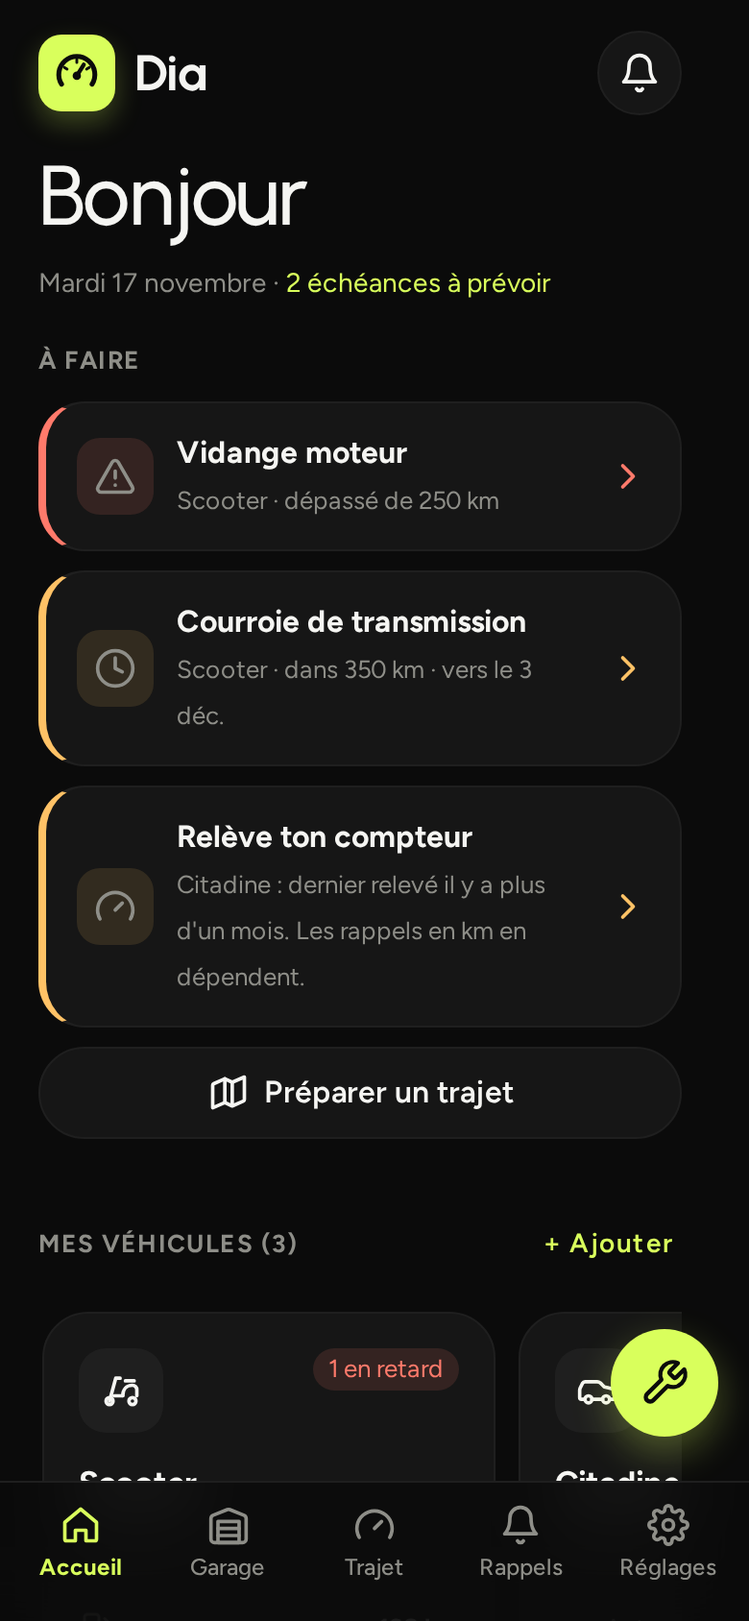
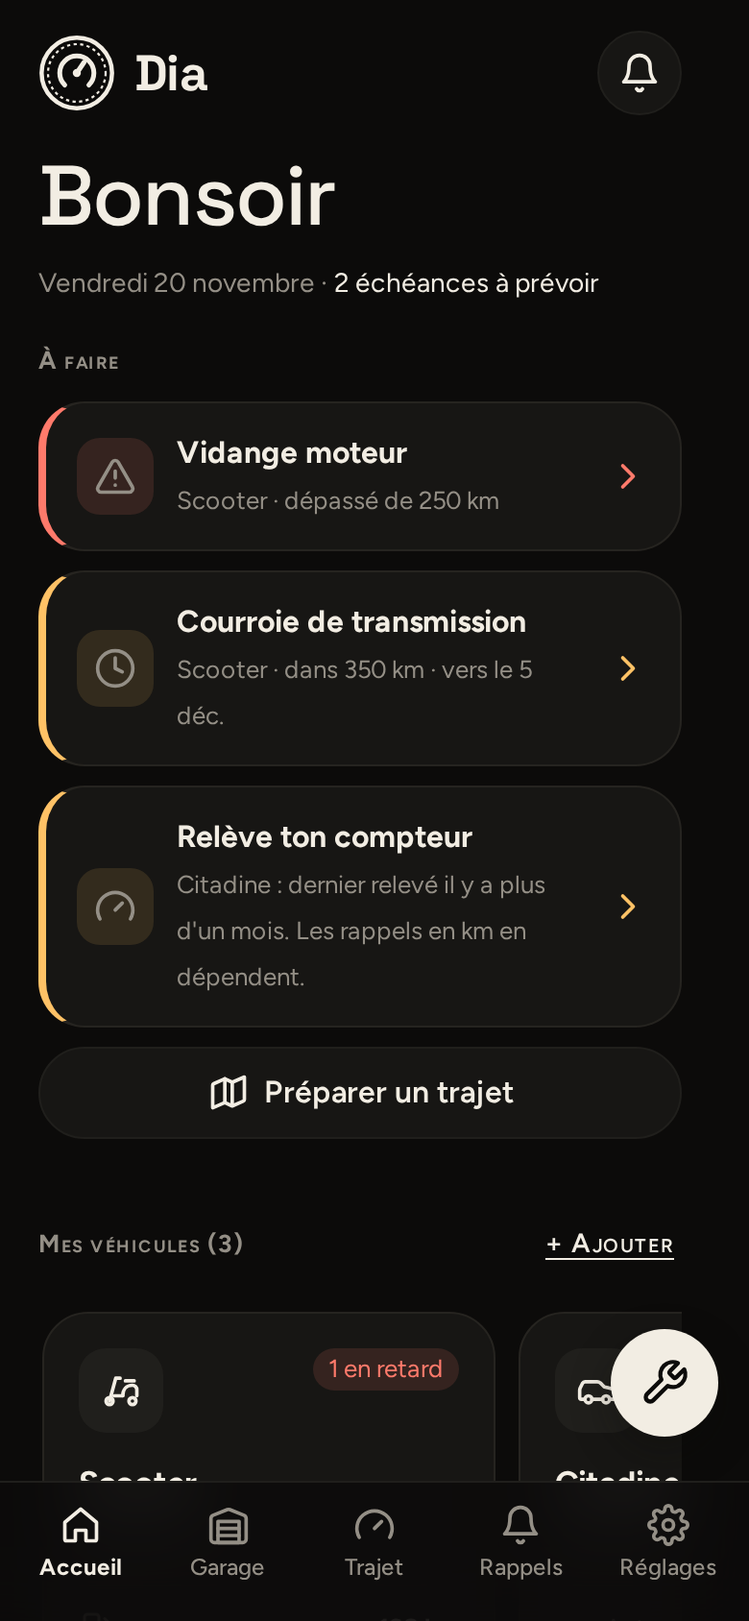
feat: charte Carnet, nouvelles captures, avis de nouvelle version (version.json)

diff --git a/style.css b/style.css
@@ -1,15 +1,15 @@
-:root{--bg:#0B0B0B;--surf:#161616;--line:#262626;--tx:#F2F2EE;--mut:#A3A39C;--acc:#D9FF5C;--on-acc:#0B0B0B;--ok:#7FE0B8;--warn:#FFC266;--late:#FF7A6B;color-scheme:dark}
-[data-theme=light]{--bg:#F5F5F2;--surf:#FFFFFF;--line:#E2E2DC;--tx:#141414;--mut:#5C5C56;--acc:#D9FF5C;--on-acc:#0B0B0B;color-scheme:light}
+:root{--bg:#0C0B0A;--surf:#171614;--line:#33312c;--tx:#F2EDE3;--mut:#948F86;--acc:#F2EDE3;--on-acc:#0C0B0A;--ok:#7FE0B8;--warn:#FFC266;--late:#FF7A6B;color-scheme:dark}
+[data-theme=light]{--bg:#F4F1EA;--surf:#FFFFFF;--line:#d8d2c6;--tx:#1A1815;--mut:#625D55;--acc:#1A1815;--on-acc:#F4F1EA;color-scheme:light}
 *{box-sizing:border-box;margin:0}
 body{background:var(--bg);color:var(--tx);font:16px/1.6 Figtree,system-ui,sans-serif;-webkit-font-smoothing:antialiased}
-h1,h2,h3{font-family:Urbanist,system-ui,sans-serif;line-height:1.15;letter-spacing:-.01em}
+h1,h2,h3{font-family:"Space Grotesk",system-ui,sans-serif;line-height:1.15;letter-spacing:-.01em}
 a{color:inherit}
 .wrap{max-width:1120px;margin:auto;padding:0 20px}
 .skip{position:absolute;left:-999px}.skip:focus{left:12px;top:12px;background:var(--acc);color:var(--on-acc);padding:8px 12px;border-radius:8px}
 :focus-visible{outline:3px solid var(--acc);outline-offset:3px;border-radius:6px}
 header{position:sticky;top:0;z-index:10;background:color-mix(in srgb,var(--bg) 85%,transparent);backdrop-filter:blur(10px);border-bottom:1px solid var(--line)}
 header .wrap{display:flex;align-items:center;gap:16px;height:64px}
-.logo{display:flex;align-items:center;gap:10px;font:700 22px Urbanist,sans-serif;text-decoration:none}
+.logo{display:flex;align-items:center;gap:10px;font:700 22px "Space Grotesk",sans-serif;text-decoration:none}
 .logo img{width:32px;height:32px;border-radius:9px}
 nav{margin-left:auto;display:flex;gap:4px}
 nav a{text-decoration:none;color:var(--mut);padding:10px 12px;border-radius:10px;font-weight:500}
@@ -17,11 +17,11 @@ nav a:hover{color:var(--tx);background:var(--surf)}
 .btn{display:inline-flex;align-items:center;gap:10px;min-height:48px;padding:0 22px;border-radius:14px;font-weight:600;text-decoration:none;transition:transform .15s,background .2s;cursor:pointer}
 .btn:active{transform:scale(.97)}
 .btn svg{width:20px;height:20px}
-.pri{background:var(--acc);color:var(--on-acc)}.pri:hover{background:#E6FF8A}
+.pri{background:var(--acc);color:var(--on-acc)}.pri:hover{opacity:.88}
 .sec{border:1px solid var(--line);background:var(--surf)}.sec:hover{border-color:var(--mut)}
 .hero{padding-block:72px 40px;display:grid;gap:48px;align-items:center}
 .tag{display:inline-block;font-size:14px;font-weight:600;color:var(--on-acc);background:var(--acc);padding:4px 12px;border-radius:99px;margin-bottom:20px}
-.hero h1{font-size:clamp(40px,7vw,68px);font-weight:800}
+.hero h1{font-size:clamp(40px,7vw,68px);font-weight:700}
 .hero h1 em{font-style:normal;color:var(--acc)}
 [data-theme=light] .hero h1 em{background:var(--acc);color:var(--on-acc);padding:0 .15em;border-radius:.15em}
 .lead{font-size:19px;color:var(--mut);margin:20px 0 28px;max-width:34em}
@@ -34,7 +34,7 @@ nav a:hover{color:var(--tx);background:var(--surf)}
 .pills span{display:flex;align-items:center;gap:8px;border:1px solid var(--line);background:var(--surf);padding:8px 14px;border-radius:99px;font-weight:500}
 .pills svg{width:18px;height:18px;color:var(--ok)}
 section{padding:72px 0}
-.sh{font-size:clamp(28px,4vw,40px);font-weight:800;margin-bottom:12px}
+.sh{font-size:clamp(28px,4vw,40px);font-weight:700;margin-bottom:12px}
 .ss{color:var(--mut);max-width:40em;margin-bottom:36px}
 .grid{display:grid;gap:16px;grid-template-columns:repeat(auto-fit,minmax(250px,1fr))}
 .card{background:var(--surf);border:1px solid var(--line);border-radius:20px;padding:24px}
@@ -64,8 +64,8 @@ footer .wrap{display:flex;flex-wrap:wrap;gap:12px 24px;justify-content:space-bet
 @media (prefers-reduced-motion:reduce){*{transition:none!important;scroll-behavior:auto!important}}
 
 /* v2 */
-.hero-bg{position:relative;background:radial-gradient(60% 60% at 75% 40%,color-mix(in srgb,var(--acc) 22%,transparent),transparent 70%),linear-gradient(180deg,rgba(11,11,11,.55),var(--bg));margin-top:-66px;padding-top:90px}
-[data-theme=light] .hero-bg{background:radial-gradient(60% 60% at 75% 40%,color-mix(in srgb,var(--acc) 45%,transparent),transparent 70%),linear-gradient(180deg,rgba(245,245,242,.6),var(--bg))}
+.hero-bg{position:relative;background:radial-gradient(60% 60% at 75% 40%,color-mix(in srgb,var(--acc) 22%,transparent),transparent 70%),linear-gradient(180deg,rgba(12,11,10,.55),var(--bg));margin-top:-66px;padding-top:90px}
+[data-theme=light] .hero-bg{background:radial-gradient(60% 60% at 75% 40%,color-mix(in srgb,var(--acc) 45%,transparent),transparent 70%),linear-gradient(180deg,rgba(244,241,234,.6),var(--bg))}
 header{background:transparent;border:0;backdrop-filter:none}
 header .wrap{margin-top:10px;height:56px;background:color-mix(in srgb,var(--surf) 75%,transparent);backdrop-filter:blur(14px);border:1px solid var(--line);border-radius:18px;padding:0 12px 0 16px}
 .tag{background:var(--surf);color:var(--tx);border:1px solid var(--line);padding:4px 12px 4px 4px}
@@ -73,8 +73,8 @@ header .wrap{margin-top:10px;height:56px;background:color-mix(in srgb,var(--surf
 .stage{position:relative;display:flex;justify-content:center;padding:20px 0 40px}
 .stage .phone{width:min(70%,260px)}
 .float{position:absolute;display:flex;align-items:center;gap:10px;background:color-mix(in srgb,var(--surf) 88%,transparent);backdrop-filter:blur(10px);border:1px solid var(--line);border-radius:16px;padding:10px 14px;box-shadow:0 16px 40px -12px rgba(0,0,0,.5);font-size:14px}
-.float b{display:block;font-family:Urbanist,sans-serif}.float small{color:var(--mut)}
-.float .big{font:800 26px Urbanist,sans-serif;color:var(--acc)}
+.float b{display:block;font-family:"Space Grotesk",sans-serif}.float small{color:var(--mut)}
+.float .big{font:700 26px "Space Grotesk",sans-serif;color:var(--acc)}
 [data-theme=light] .float .big{color:var(--tx)}
 .dot{width:10px;height:10px;border-radius:50%}.dot.warn{background:var(--warn)}.dot.ok{background:var(--ok)}
 .f1{left:0;top:18%}.f2{right:0;top:45%;flex-direction:column;align-items:flex-start;gap:0}.f3{left:4%;bottom:12%}
@@ -91,20 +91,20 @@ header .wrap{margin-top:10px;height:56px;background:color-mix(in srgb,var(--surf
 .tile .ic{width:44px;height:44px;border-radius:12px;background:var(--on-acc);color:var(--acc);display:grid;place-items:center;margin-bottom:16px}.tile .ic svg{width:22px}
 .steps{list-style:none;padding:0;display:grid;gap:16px;grid-template-columns:repeat(auto-fit,minmax(240px,1fr));margin-top:28px}
 .steps li{border-top:2px solid var(--line);padding-top:20px}
-.steps span{display:grid;place-items:center;width:40px;height:40px;border-radius:50%;background:var(--acc);color:var(--on-acc);font:800 18px Urbanist,sans-serif;margin-bottom:14px}
+.steps span{display:grid;place-items:center;width:40px;height:40px;border-radius:50%;background:var(--acc);color:var(--on-acc);font:700 18px "Space Grotesk",sans-serif;margin-bottom:14px}
 .steps h3{font-size:20px;margin-bottom:6px}.steps p{color:var(--mut)}
 @media (min-width:760px){.bento{grid-template-columns:repeat(3,1fr)}.tile.wide{grid-column:span 2;flex-direction:row;align-items:flex-end}.tile.wide .tx{flex:1;align-self:flex-start;padding:32px}.tile.wide img{width:240px;margin:24px 32px 0 0}}
 @media (max-width:480px){.float{font-size:12px;padding:8px 10px}.f1{left:0}.f2{right:0}}
 .faq{max-width:760px}
 details{border-bottom:1px solid var(--line)}
-summary{cursor:pointer;list-style:none;display:flex;justify-content:space-between;gap:16px;padding:20px 0;font:700 18px Urbanist,sans-serif}
+summary{cursor:pointer;list-style:none;display:flex;justify-content:space-between;gap:16px;padding:20px 0;font:700 18px "Space Grotesk",sans-serif}
 summary::-webkit-details-marker{display:none}
 summary::after{content:"+";color:var(--acc);font-size:24px;line-height:1;transition:transform .2s}
 [data-theme=light] summary::after{color:var(--tx)}
 details[open] summary::after{transform:rotate(45deg)}
 details p{color:var(--mut);padding:0 0 20px}
 .final{text-align:center;padding:96px 0;background:radial-gradient(50% 70% at 50% 100%,color-mix(in srgb,var(--acc) 25%,transparent),transparent 70%)}
-.final h2{font-size:clamp(30px,5vw,52px);font-weight:800;max-width:16em;margin:auto}
+.final h2{font-size:clamp(30px,5vw,52px);font-weight:700;max-width:16em;margin:auto}
 .final p{color:var(--mut);margin:14px 0 28px;font-size:18px}
 .js [data-r]{opacity:0;transform:translateY(28px);transition:opacity .7s cubic-bezier(.2,.7,.2,1),transform .7s cubic-bezier(.2,.7,.2,1)}
 .js [data-r].in{opacity:1;transform:none}
@@ -124,10 +124,10 @@ details[open] p{animation:faq .35s cubic-bezier(.2,.7,.2,1)}
 .visually-hidden{position:absolute;width:1px;height:1px;overflow:hidden;clip:rect(0 0 0 0)}
 .xp{position:relative;overflow:hidden;background:radial-gradient(70% 80% at 85% 60%,color-mix(in srgb,var(--acc) 14%,transparent),transparent 70%)}
 .xp .wrap{position:relative}
-.xp-bg{position:absolute;top:-.12em;left:0;font:800 clamp(80px,17vw,230px)/1 Urbanist,sans-serif;letter-spacing:-.05em;white-space:nowrap;color:transparent;-webkit-text-stroke:1px var(--line);pointer-events:none;user-select:none}
+.xp-bg{position:absolute;top:-.12em;left:0;font:700 clamp(80px,17vw,230px)/1 "Space Grotesk",sans-serif;letter-spacing:-.05em;white-space:nowrap;color:transparent;-webkit-text-stroke:1px var(--line);pointer-events:none;user-select:none}
 .show{position:relative;display:grid;gap:32px;padding-top:clamp(70px,12vw,170px)}
 .show-tabs{display:flex;flex-direction:column;align-items:flex-start}
-.show-tabs button{all:unset;cursor:pointer;display:flex;align-items:baseline;gap:12px;font:800 clamp(30px,5vw,56px)/1.08 Urbanist,sans-serif;letter-spacing:-.03em;text-transform:uppercase;color:color-mix(in srgb,var(--tx) 45%,transparent);transition:color .3s}
+.show-tabs button{all:unset;cursor:pointer;display:flex;align-items:baseline;gap:12px;font:700 clamp(30px,5vw,56px)/1.08 "Space Grotesk",sans-serif;letter-spacing:-.03em;text-transform:uppercase;color:color-mix(in srgb,var(--tx) 45%,transparent);transition:color .3s}
 .show-tabs button i{font:500 13px ui-monospace,monospace;font-style:normal;letter-spacing:0;color:var(--mut)}
 .show-tabs button:hover{color:color-mix(in srgb,var(--tx) 70%,transparent)}
 .show-tabs button[aria-selected=true]{color:var(--acc)}
@@ -208,3 +208,17 @@ nav .lng a[aria-current]{background:var(--acc);color:var(--on-acc)}
 }
 .show{grid-template-columns:minmax(0,1fr)}@media (min-width:860px){.show{grid-template-columns:minmax(0,1.2fr) minmax(0,1fr)}}
 .lng{align-items:center;align-self:center}nav .lng a{display:grid;place-items:center;line-height:1;height:28px;padding:0 9px}@media (max-width:640px){nav .lng a{height:40px;padding:0 16px}}
+
+/* charte « Carnet » : ivoire sur noir chaud, traits pointillés de carnet, petites capitales */
+.hero h1 em,[data-theme=light] .hero h1 em{color:inherit;background:none;padding:0;text-decoration:underline;text-decoration-thickness:.07em;text-underline-offset:.14em}
+.hero-bg,[data-theme=light] .hero-bg,.final,.xp{background:none}
+.show-stage{background:var(--bg)}
+.card,.tile,.show-card,.don{border-style:dashed}
+.tile.lock{border:0}.tile.lock p{color:color-mix(in srgb,var(--on-acc) 72%,transparent)}
+.steps li{border-top-style:dashed}details{border-bottom-style:dashed}
+
+.tag b{font-variant:small-caps;letter-spacing:.04em}
+.phone,.show-phone{border-color:#1c1b19}
+.float .big{color:var(--tx)}
+.pills svg{color:var(--tx)}
+summary::after{color:var(--tx)}

diff --git a/index.html b/index.html
@@ -5,7 +5,7 @@
 <meta name="viewport" content="width=device-width,initial-scale=1">
 <title>Dia — diarin'ny fikojakojana ny fiaranao</title>
 <meta name="description" content="Manaraka ny fikojakojana, ny solika ary ny dian'ny fiaranao rehetra i Dia. Maimaim-poana, mandeha tsy misy Internet, tsy mila kaonty, tsy misy dokam-barotra. Natao ho an'i Madagasikara.">
-<meta name="theme-color" content="#0B0B0B">
+<meta name="theme-color" content="#0C0B0A">
 <meta property="og:title" content="Dia — diarin'ny fikojakojana ny fiaranao">
 <meta property="og:description" content="Maimaim-poana, tsy mila Internet, tsy mila kaonty, tsy misy dokam-barotra.">
 <meta property="og:image" content="https://jhasina.github.io/dia-site/img/01-accueil.png">
@@ -16,11 +16,11 @@
 <link rel="alternate" hreflang="x-default" href="https://jhasina.github.io/dia-site/">
 <meta property="og:url" content="https://jhasina.github.io/dia-site/">
 <script type="application/ld+json">
-{"@context":"https://schema.org","@type":"SoftwareApplication","name":"Dia","inLanguage":"mg","operatingSystem":"Android 7.0+","applicationCategory":"TravelApplication","description":"Manaraka ny fikojakojana, ny solika ary ny dian'ny fiaranao rehetra i Dia. Maimaim-poana, mandeha tsy misy Internet, tsy mila kaonty, tsy misy dokam-barotra. Natao ho an'i Madagasikara.","url":"https://jhasina.github.io/dia-site/","downloadUrl":"https://github.com/jhasina/dia-site/releases/latest/download/Dia.apk","softwareVersion":"0.1.6","image":"https://jhasina.github.io/dia-site/img/icone.png","screenshot":"https://jhasina.github.io/dia-site/img/01-accueil.png","author":{"@type":"Person","name":"Jhasina"},"offers":{"@type":"Offer","price":"0","priceCurrency":"MGA"}}
+{"@context":"https://schema.org","@type":"SoftwareApplication","name":"Dia","inLanguage":"mg","operatingSystem":"Android 7.0+","applicationCategory":"TravelApplication","description":"Manaraka ny fikojakojana, ny solika ary ny dian'ny fiaranao rehetra i Dia. Maimaim-poana, mandeha tsy misy Internet, tsy mila kaonty, tsy misy dokam-barotra. Natao ho an'i Madagasikara.","url":"https://jhasina.github.io/dia-site/","downloadUrl":"https://github.com/jhasina/dia-site/releases/latest/download/Dia.apk","softwareVersion":"0.1.7","image":"https://jhasina.github.io/dia-site/img/icone.png","screenshot":"https://jhasina.github.io/dia-site/img/01-accueil.png","author":{"@type":"Person","name":"Jhasina"},"offers":{"@type":"Offer","price":"0","priceCurrency":"MGA"}}
 </script>
 <link rel="icon" href="img/icone.png">
 <link rel="preconnect" href="https://fonts.googleapis.com"><link rel="preconnect" href="https://fonts.gstatic.com" crossorigin>
-<link href="https://fonts.googleapis.com/css2?family=Figtree:wght@400;500;600&family=Urbanist:wght@700;800&display=swap" rel="stylesheet">
+<link href="https://fonts.googleapis.com/css2?family=Figtree:wght@400;500;600&family=Space+Grotesk:wght@600;700&display=swap" rel="stylesheet">
 <script>try{document.documentElement.dataset.theme=localStorage.dia_theme||(matchMedia('(prefers-color-scheme: light)').matches?'light':'dark')}catch(e){document.documentElement.dataset.theme='dark'}</script>
 <link rel="stylesheet" href="style.css">
 </head>
@@ -70,7 +70,7 @@
     <article data-r class="tile "><div class="tx"><h3>Solika</h3><p>Saha 2 amin'ny 3 ihany, fanjifana, vidiny isaky ny km, halaviran-dalana azo atao araka ny jauge-nao.</p></div><img src="img/04-carburant.png" alt="Fanarahana ny solika" loading="lazy" width="390" height="844"></article>
     <article data-r class="tile "><div class="tx"><h3>Kaontera GPS</h3><p>Hafainganana, halavirana ary lalana nodiavina, na dia any ambadika aza.</p></div><img src="img/07-compteur.png" alt="Kaontera GPS" loading="lazy" width="390" height="844"></article>
     <article data-r class="tile wide"><div class="tx"><h3>Hanomana dia</h3><p>Lalana, toeram-pivarotana solika eny an-dalana, fampitandremana raha misy elanelana mihoatra ny solika ananao.</p></div><img src="img/08-preparer.png" alt="Fanomanana dia eo amin'ny sarintany" loading="lazy" width="390" height="844"></article>
-    <article data-r class="tile "><div class="tx"><h3>Rakitsoratra</h3><p>Olana, andrana, fanamboarana, firafitry ny fiara.</p></div><img src="img/05-journal.png" alt="Rakitsoratra" loading="lazy" width="390" height="844"></article>
+    <article data-r class="tile "><div class="tx"><h3>Fanamarihana sy fanarahana</h3><p>Olana, andrana, fanamboarana, firafitry ny fiara.</p></div><img src="img/05-journal.png" alt="Fanamarihana sy fanarahana ny fiara" loading="lazy" width="390" height="844"></article>
     <article data-r class="tile lock"><div class="tx"><div class="ic"><svg viewBox="0 0 24 24" fill="none" stroke="currentColor" stroke-width="2" stroke-linecap="round" stroke-linejoin="round" aria-hidden="true"><rect x="5" y="11" width="14" height="10" rx="2"/><path d="M8 11V7a4 4 0 0 1 8 0v4"/></svg></div><h3>Aminao ihany ny angonao</h3><p>Tsy misy mivoaka ny findainao. Tsy misy mpizara, tsy misy fanaraha-maso. Azonao aondrana JSON na CSV rehefa tianao.</p><a href="confidentialite.html#mg">Fiainana manokana</a></div></article>
   </div>
 </div></section>
@@ -89,11 +89,11 @@
   <div class="show" data-r>
     <div class="show-side">
       <h2 class="visually-hidden">Sary</h2>
-      <div class="show-tabs" role="tablist" aria-label="Ireo pejin'i Dia"><button role="tab" aria-selected="true" aria-controls="show-card"><i>01</i>Garazy</button><button role="tab" aria-selected="false" aria-controls="show-card"><i>02</i>Fanairana</button><button role="tab" aria-selected="false" aria-controls="show-card"><i>03</i>Solika</button><button role="tab" aria-selected="false" aria-controls="show-card"><i>04</i>Dia</button><button role="tab" aria-selected="false" aria-controls="show-card"><i>05</i>Rakitsoratra</button><button role="tab" aria-selected="false" aria-controls="show-card"><i>06</i>Fikirana</button></div>
+      <div class="show-tabs" role="tablist" aria-label="Ireo pejin'i Dia"><button role="tab" aria-selected="true" aria-controls="show-card"><i>01</i>Garazy</button><button role="tab" aria-selected="false" aria-controls="show-card"><i>02</i>Fanairana</button><button role="tab" aria-selected="false" aria-controls="show-card"><i>03</i>Solika</button><button role="tab" aria-selected="false" aria-controls="show-card"><i>04</i>Dia</button><button role="tab" aria-selected="false" aria-controls="show-card"><i>05</i>Fanamarihana</button><button role="tab" aria-selected="false" aria-controls="show-card"><i>06</i>Fikirana</button></div>
       <p class="xp-tag">Pejy iray isaky ny filana.<br>Ao anaty app iray ihany ny zava-drehetra.</p>
     </div>
     <div class="show-card" id="show-card" role="tabpanel">
-      <div class="show-stage"><div class="show-phone"><img src="img/02-garage.png" alt="Pejy Garazy ao amin'i Dia" width="390" height="844" data-h="Ny fiaranao rehetra, rakitsoratra iray." data-d="Scooter, fiara, bisikileta: samy manana ny kaonterany, ny fampahatsiahivany ary ny fandaniany." class=on><img src="img/09-rappels.png" alt="Pejy Fanairana ao amin'i Dia" width="390" height="844" data-h="Tsy misy hadino." data-d="Tara, efa ho tonga, vita: hita indray mijery ny toetry ny fikojakojana tsirairay." loading=lazy><img src="img/04-carburant.png" alt="Pejy Solika ao amin'i Dia" width="390" height="844" data-h="Manan-danja ny solika rehetra." data-d="Fanjifana, vidiny isaky ny km ary vidiny antonony, kajiana ho anao." loading=lazy><img src="img/08-preparer.png" alt="Pejy Dia ao amin'i Dia" width="390" height="844" data-h="Miaingà am-piadanana." data-d="Lalana, toeram-pivarotana solika eny an-dalana ary fampitandremana momba ny solika alohan'ny hiaingana." loading=lazy><img src="img/05-journal.png" alt="Pejy Rakitsoratra ao amin'i Dia" width="390" height="844" data-h="Ny fahatsiarovan'ny fiaranao." data-d="Olana, andrana ary fanamboarana voasoratra tsikelikely, hita amin'ny fikarohana iray." loading=lazy><img src="img/10-reglages.png" alt="Pejy Fikirana ao amin'i Dia" width="390" height="844" data-h="Dia, araka ny fomba tianao." data-d="Fiteny, vola, loko, haben'ny soratra ary fitehirizana." loading=lazy></div></div>
+      <div class="show-stage"><div class="show-phone"><img src="img/02-garage.png" alt="Pejy Garazy ao amin'i Dia" width="390" height="844" data-h="Ny fiaranao rehetra, rakitsoratra iray." data-d="Scooter, fiara, bisikileta: samy manana ny kaonterany, ny fampahatsiahivany ary ny fandaniany." class=on><img src="img/09-rappels.png" alt="Pejy Fanairana ao amin'i Dia" width="390" height="844" data-h="Tsy misy hadino." data-d="Tara, efa ho tonga, vita: hita indray mijery ny toetry ny fikojakojana tsirairay." loading=lazy><img src="img/04-carburant.png" alt="Pejy Solika ao amin'i Dia" width="390" height="844" data-h="Manan-danja ny solika rehetra." data-d="Fanjifana, vidiny isaky ny km ary vidiny antonony, kajiana ho anao." loading=lazy><img src="img/08-preparer.png" alt="Pejy Dia ao amin'i Dia" width="390" height="844" data-h="Miaingà am-piadanana." data-d="Lalana, toeram-pivarotana solika eny an-dalana ary fampitandremana momba ny solika alohan'ny hiaingana." loading=lazy><img src="img/05-journal.png" alt="Pejy Fanamarihana ao amin'i Dia" width="390" height="844" data-h="Ny fahatsiarovan'ny fiaranao." data-d="Olana, andrana ary fanamboarana voasoratra tsikelikely, hita amin'ny fikarohana iray." loading=lazy><img src="img/10-reglages.png" alt="Pejy Fikirana ao amin'i Dia" width="390" height="844" data-h="Dia, araka ny fomba tianao." data-d="Fiteny, vola, loko, haben'ny soratra ary fitehirizana." loading=lazy></div></div>
       <h3 id="show-h">Ny fiaranao rehetra, rakitsoratra iray.</h3>
       <p id="show-d">Scooter, fiara, bisikileta: samy manana ny kaonterany, ny fampahatsiahivany ary ny fandaniany.</p>
     </div>

diff --git a/fr.html b/fr.html
@@ -5,7 +5,7 @@
 <meta name="viewport" content="width=device-width,initial-scale=1">
 <title>Dia — carnet d'entretien de tes véhicules</title>
 <meta name="description" content="Dia suit l'entretien, le carburant et les trajets de tous tes véhicules. Gratuit, hors ligne, sans compte et sans publicité. Pensé pour Madagascar.">
-<meta name="theme-color" content="#0B0B0B">
+<meta name="theme-color" content="#0C0B0A">
 <meta property="og:title" content="Dia — carnet d'entretien de tes véhicules">
 <meta property="og:description" content="Gratuit, hors ligne, sans compte, sans publicité.">
 <meta property="og:image" content="https://jhasina.github.io/dia-site/img/01-accueil.png">
@@ -16,11 +16,11 @@
 <link rel="alternate" hreflang="x-default" href="https://jhasina.github.io/dia-site/">
 <meta property="og:url" content="https://jhasina.github.io/dia-site/fr.html">
 <script type="application/ld+json">
-{"@context":"https://schema.org","@type":"SoftwareApplication","name":"Dia","inLanguage":"fr","operatingSystem":"Android 7.0+","applicationCategory":"TravelApplication","description":"Dia suit l'entretien, le carburant et les trajets de tous tes véhicules. Gratuit, hors ligne, sans compte et sans publicité. Pensé pour Madagascar.","url":"https://jhasina.github.io/dia-site/fr.html","downloadUrl":"https://github.com/jhasina/dia-site/releases/latest/download/Dia.apk","softwareVersion":"0.1.6","image":"https://jhasina.github.io/dia-site/img/icone.png","screenshot":"https://jhasina.github.io/dia-site/img/01-accueil.png","author":{"@type":"Person","name":"Jhasina"},"offers":{"@type":"Offer","price":"0","priceCurrency":"MGA"}}
+{"@context":"https://schema.org","@type":"SoftwareApplication","name":"Dia","inLanguage":"fr","operatingSystem":"Android 7.0+","applicationCategory":"TravelApplication","description":"Dia suit l'entretien, le carburant et les trajets de tous tes véhicules. Gratuit, hors ligne, sans compte et sans publicité. Pensé pour Madagascar.","url":"https://jhasina.github.io/dia-site/fr.html","downloadUrl":"https://github.com/jhasina/dia-site/releases/latest/download/Dia.apk","softwareVersion":"0.1.7","image":"https://jhasina.github.io/dia-site/img/icone.png","screenshot":"https://jhasina.github.io/dia-site/img/01-accueil.png","author":{"@type":"Person","name":"Jhasina"},"offers":{"@type":"Offer","price":"0","priceCurrency":"MGA"}}
 </script>
 <link rel="icon" href="img/icone.png">
 <link rel="preconnect" href="https://fonts.googleapis.com"><link rel="preconnect" href="https://fonts.gstatic.com" crossorigin>
-<link href="https://fonts.googleapis.com/css2?family=Figtree:wght@400;500;600&family=Urbanist:wght@700;800&display=swap" rel="stylesheet">
+<link href="https://fonts.googleapis.com/css2?family=Figtree:wght@400;500;600&family=Space+Grotesk:wght@600;700&display=swap" rel="stylesheet">
 <script>try{document.documentElement.dataset.theme=localStorage.dia_theme||(matchMedia('(prefers-color-scheme: light)').matches?'light':'dark')}catch(e){document.documentElement.dataset.theme='dark'}</script>
 <link rel="stylesheet" href="style.css">
 </head>
@@ -70,7 +70,7 @@
     <article data-r class="tile "><div class="tx"><h3>Carburant</h3><p>2 champs sur 3, consommation, coût au km, autonomie selon ta jauge.</p></div><img src="img/04-carburant.png" alt="Suivi du carburant" loading="lazy" width="390" height="844"></article>
     <article data-r class="tile "><div class="tx"><h3>Compteur GPS</h3><p>Vitesse, distance et tracé, même en arrière-plan.</p></div><img src="img/07-compteur.png" alt="Compteur GPS" loading="lazy" width="390" height="844"></article>
     <article data-r class="tile wide"><div class="tx"><h3>Préparer un trajet</h3><p>Itinéraire, stations sur la route, alerte si un tronçon dépasse ton autonomie.</p></div><img src="img/08-preparer.png" alt="Préparer un trajet sur la carte" loading="lazy" width="390" height="844"></article>
-    <article data-r class="tile "><div class="tx"><h3>Journal</h3><p>Problèmes, essais, réglages, configuration du véhicule.</p></div><img src="img/05-journal.png" alt="Journal de bord" loading="lazy" width="390" height="844"></article>
+    <article data-r class="tile "><div class="tx"><h3>Notes et suivi</h3><p>Problèmes, essais, réglages, configuration du véhicule.</p></div><img src="img/05-journal.png" alt="Notes et suivi du véhicule" loading="lazy" width="390" height="844"></article>
     <article data-r class="tile lock"><div class="tx"><div class="ic"><svg viewBox="0 0 24 24" fill="none" stroke="currentColor" stroke-width="2" stroke-linecap="round" stroke-linejoin="round" aria-hidden="true"><rect x="5" y="11" width="14" height="10" rx="2"/><path d="M8 11V7a4 4 0 0 1 8 0v4"/></svg></div><h3>Tes données restent chez toi</h3><p>Rien ne quitte le téléphone. Pas de serveur, pas de pisteur. Export JSON ou CSV quand tu veux.</p><a href="confidentialite.html#fr">Confidentialité</a></div></article>
   </div>
 </div></section>
@@ -89,11 +89,11 @@
   <div class="show" data-r>
     <div class="show-side">
       <h2 class="visually-hidden">En images</h2>
-      <div class="show-tabs" role="tablist" aria-label="Écrans de Dia"><button role="tab" aria-selected="true" aria-controls="show-card"><i>01</i>Garage</button><button role="tab" aria-selected="false" aria-controls="show-card"><i>02</i>Rappels</button><button role="tab" aria-selected="false" aria-controls="show-card"><i>03</i>Carburant</button><button role="tab" aria-selected="false" aria-controls="show-card"><i>04</i>Trajet</button><button role="tab" aria-selected="false" aria-controls="show-card"><i>05</i>Journal</button><button role="tab" aria-selected="false" aria-controls="show-card"><i>06</i>Réglages</button></div>
+      <div class="show-tabs" role="tablist" aria-label="Écrans de Dia"><button role="tab" aria-selected="true" aria-controls="show-card"><i>01</i>Garage</button><button role="tab" aria-selected="false" aria-controls="show-card"><i>02</i>Rappels</button><button role="tab" aria-selected="false" aria-controls="show-card"><i>03</i>Carburant</button><button role="tab" aria-selected="false" aria-controls="show-card"><i>04</i>Trajet</button><button role="tab" aria-selected="false" aria-controls="show-card"><i>05</i>Notes et suivi</button><button role="tab" aria-selected="false" aria-controls="show-card"><i>06</i>Réglages</button></div>
       <p class="xp-tag">Un écran par besoin.<br>Tout dans la même app.</p>
     </div>
     <div class="show-card" id="show-card" role="tabpanel">
-      <div class="show-stage"><div class="show-phone"><img src="img/02-garage.png" alt="Écran Garage de Dia" width="390" height="844" data-h="Tous tes véhicules, un seul carnet." data-d="Scooter, voiture, vélo : chacun son compteur, ses rappels et ses dépenses." class=on><img src="img/09-rappels.png" alt="Écran Rappels de Dia" width="390" height="844" data-h="Rien ne passe à la trappe." data-d="En retard, bientôt, à jour : l'état de chaque entretien d'un coup d'œil." loading=lazy><img src="img/04-carburant.png" alt="Écran Carburant de Dia" width="390" height="844" data-h="Chaque plein compte." data-d="Consommation, coût au km et prix moyen, calculés pour toi." loading=lazy><img src="img/08-preparer.png" alt="Écran Trajet de Dia" width="390" height="844" data-h="Pars l'esprit tranquille." data-d="Itinéraire, stations sur la route et alerte d'autonomie avant de partir." loading=lazy><img src="img/05-journal.png" alt="Écran Journal de Dia" width="390" height="844" data-h="La mémoire de ton véhicule." data-d="Problèmes, essais et réglages notés au fil de l'eau, retrouvés en une recherche." loading=lazy><img src="img/10-reglages.png" alt="Écran Réglages de Dia" width="390" height="844" data-h="Dia, à ta façon." data-d="Langue, devise, thème, taille du texte et sauvegarde." loading=lazy></div></div>
+      <div class="show-stage"><div class="show-phone"><img src="img/02-garage.png" alt="Écran Garage de Dia" width="390" height="844" data-h="Tous tes véhicules, un seul carnet." data-d="Scooter, voiture, vélo : chacun son compteur, ses rappels et ses dépenses." class=on><img src="img/09-rappels.png" alt="Écran Rappels de Dia" width="390" height="844" data-h="Rien ne passe à la trappe." data-d="En retard, bientôt, à jour : l'état de chaque entretien d'un coup d'œil." loading=lazy><img src="img/04-carburant.png" alt="Écran Carburant de Dia" width="390" height="844" data-h="Chaque plein compte." data-d="Consommation, coût au km et prix moyen, calculés pour toi." loading=lazy><img src="img/08-preparer.png" alt="Écran Trajet de Dia" width="390" height="844" data-h="Pars l'esprit tranquille." data-d="Itinéraire, stations sur la route et alerte d'autonomie avant de partir." loading=lazy><img src="img/05-journal.png" alt="Écran Notes et suivi de Dia" width="390" height="844" data-h="La mémoire de ton véhicule." data-d="Problèmes, essais et réglages notés au fil de l'eau, retrouvés en une recherche." loading=lazy><img src="img/10-reglages.png" alt="Écran Réglages de Dia" width="390" height="844" data-h="Dia, à ta façon." data-d="Langue, devise, thème, taille du texte et sauvegarde." loading=lazy></div></div>
       <h3 id="show-h">Tous tes véhicules, un seul carnet.</h3>
       <p id="show-d">Scooter, voiture, vélo : chacun son compteur, ses rappels et ses dépenses.</p>
     </div>

diff --git a/en.html b/en.html
@@ -5,7 +5,7 @@
 <meta name="viewport" content="width=device-width,initial-scale=1">
 <title>Dia — the maintenance log for your vehicles</title>
 <meta name="description" content="Dia tracks maintenance, fuel and trips for all your vehicles. Free, offline, no account and no ads. Built for Madagascar.">
-<meta name="theme-color" content="#0B0B0B">
+<meta name="theme-color" content="#0C0B0A">
 <meta property="og:title" content="Dia — the maintenance log for your vehicles">
 <meta property="og:description" content="Free, offline, no account, no ads.">
 <meta property="og:image" content="https://jhasina.github.io/dia-site/img/01-accueil.png">
@@ -16,11 +16,11 @@
 <link rel="alternate" hreflang="x-default" href="https://jhasina.github.io/dia-site/">
 <meta property="og:url" content="https://jhasina.github.io/dia-site/en.html">
 <script type="application/ld+json">
-{"@context":"https://schema.org","@type":"SoftwareApplication","name":"Dia","inLanguage":"en","operatingSystem":"Android 7.0+","applicationCategory":"TravelApplication","description":"Dia tracks maintenance, fuel and trips for all your vehicles. Free, offline, no account and no ads. Built for Madagascar.","url":"https://jhasina.github.io/dia-site/en.html","downloadUrl":"https://github.com/jhasina/dia-site/releases/latest/download/Dia.apk","softwareVersion":"0.1.6","image":"https://jhasina.github.io/dia-site/img/icone.png","screenshot":"https://jhasina.github.io/dia-site/img/01-accueil.png","author":{"@type":"Person","name":"Jhasina"},"offers":{"@type":"Offer","price":"0","priceCurrency":"MGA"}}
+{"@context":"https://schema.org","@type":"SoftwareApplication","name":"Dia","inLanguage":"en","operatingSystem":"Android 7.0+","applicationCategory":"TravelApplication","description":"Dia tracks maintenance, fuel and trips for all your vehicles. Free, offline, no account and no ads. Built for Madagascar.","url":"https://jhasina.github.io/dia-site/en.html","downloadUrl":"https://github.com/jhasina/dia-site/releases/latest/download/Dia.apk","softwareVersion":"0.1.7","image":"https://jhasina.github.io/dia-site/img/icone.png","screenshot":"https://jhasina.github.io/dia-site/img/01-accueil.png","author":{"@type":"Person","name":"Jhasina"},"offers":{"@type":"Offer","price":"0","priceCurrency":"MGA"}}
 </script>
 <link rel="icon" href="img/icone.png">
 <link rel="preconnect" href="https://fonts.googleapis.com"><link rel="preconnect" href="https://fonts.gstatic.com" crossorigin>
-<link href="https://fonts.googleapis.com/css2?family=Figtree:wght@400;500;600&family=Urbanist:wght@700;800&display=swap" rel="stylesheet">
+<link href="https://fonts.googleapis.com/css2?family=Figtree:wght@400;500;600&family=Space+Grotesk:wght@600;700&display=swap" rel="stylesheet">
 <script>try{document.documentElement.dataset.theme=localStorage.dia_theme||(matchMedia('(prefers-color-scheme: light)').matches?'light':'dark')}catch(e){document.documentElement.dataset.theme='dark'}</script>
 <link rel="stylesheet" href="style.css">
 </head>
@@ -70,7 +70,7 @@
     <article data-r class="tile "><div class="tx"><h3>Fuel</h3><p>Fill 2 fields out of 3, consumption, cost per km, range from your fuel gauge.</p></div><img src="img/04-carburant.png" alt="Fuel tracking" loading="lazy" width="390" height="844"></article>
     <article data-r class="tile "><div class="tx"><h3>GPS speedometer</h3><p>Speed, distance and track, even in the background.</p></div><img src="img/07-compteur.png" alt="GPS speedometer" loading="lazy" width="390" height="844"></article>
     <article data-r class="tile wide"><div class="tx"><h3>Plan a trip</h3><p>Route, fuel stations on the way, warning if a stretch exceeds your range.</p></div><img src="img/08-preparer.png" alt="Planning a trip on the map" loading="lazy" width="390" height="844"></article>
-    <article data-r class="tile "><div class="tx"><h3>Logbook</h3><p>Problems, tests, adjustments, vehicle setup.</p></div><img src="img/05-journal.png" alt="Logbook" loading="lazy" width="390" height="844"></article>
+    <article data-r class="tile "><div class="tx"><h3>Notes and tracking</h3><p>Problems, tests, adjustments, vehicle setup.</p></div><img src="img/05-journal.png" alt="Vehicle notes and tracking" loading="lazy" width="390" height="844"></article>
     <article data-r class="tile lock"><div class="tx"><div class="ic"><svg viewBox="0 0 24 24" fill="none" stroke="currentColor" stroke-width="2" stroke-linecap="round" stroke-linejoin="round" aria-hidden="true"><rect x="5" y="11" width="14" height="10" rx="2"/><path d="M8 11V7a4 4 0 0 1 8 0v4"/></svg></div><h3>Your data stays with you</h3><p>Nothing leaves your phone. No server, no tracker. Export to JSON or CSV whenever you like.</p><a href="confidentialite.html#en">Privacy</a></div></article>
   </div>
 </div></section>
@@ -89,11 +89,11 @@
   <div class="show" data-r>
     <div class="show-side">
       <h2 class="visually-hidden">Screens</h2>
-      <div class="show-tabs" role="tablist" aria-label="Dia screens"><button role="tab" aria-selected="true" aria-controls="show-card"><i>01</i>Garage</button><button role="tab" aria-selected="false" aria-controls="show-card"><i>02</i>Reminders</button><button role="tab" aria-selected="false" aria-controls="show-card"><i>03</i>Fuel</button><button role="tab" aria-selected="false" aria-controls="show-card"><i>04</i>Trips</button><button role="tab" aria-selected="false" aria-controls="show-card"><i>05</i>Logbook</button><button role="tab" aria-selected="false" aria-controls="show-card"><i>06</i>Settings</button></div>
+      <div class="show-tabs" role="tablist" aria-label="Dia screens"><button role="tab" aria-selected="true" aria-controls="show-card"><i>01</i>Garage</button><button role="tab" aria-selected="false" aria-controls="show-card"><i>02</i>Reminders</button><button role="tab" aria-selected="false" aria-controls="show-card"><i>03</i>Fuel</button><button role="tab" aria-selected="false" aria-controls="show-card"><i>04</i>Trips</button><button role="tab" aria-selected="false" aria-controls="show-card"><i>05</i>Notes</button><button role="tab" aria-selected="false" aria-controls="show-card"><i>06</i>Settings</button></div>
       <p class="xp-tag">One screen per need.<br>All in the same app.</p>
     </div>
     <div class="show-card" id="show-card" role="tabpanel">
-      <div class="show-stage"><div class="show-phone"><img src="img/02-garage.png" alt="Dia Garage screen" width="390" height="844" data-h="All your vehicles, one log." data-d="Scooter, car, bike: each with its own odometer, reminders and expenses." class=on><img src="img/09-rappels.png" alt="Dia Reminders screen" width="390" height="844" data-h="Nothing slips through." data-d="Overdue, soon, up to date: every service at a glance." loading=lazy><img src="img/04-carburant.png" alt="Dia Fuel screen" width="390" height="844" data-h="Every fill-up counts." data-d="Consumption, cost per km and average price, worked out for you." loading=lazy><img src="img/08-preparer.png" alt="Dia Trip screen" width="390" height="844" data-h="Leave with peace of mind." data-d="Route, fuel stations on the way and range warning before you leave." loading=lazy><img src="img/05-journal.png" alt="Dia Logbook screen" width="390" height="844" data-h="Your vehicle's memory." data-d="Problems, tests and adjustments noted as you go, found with one search." loading=lazy><img src="img/10-reglages.png" alt="Dia Settings screen" width="390" height="844" data-h="Dia, your way." data-d="Language, currency, theme, text size and backup." loading=lazy></div></div>
+      <div class="show-stage"><div class="show-phone"><img src="img/02-garage.png" alt="Dia Garage screen" width="390" height="844" data-h="All your vehicles, one log." data-d="Scooter, car, bike: each with its own odometer, reminders and expenses." class=on><img src="img/09-rappels.png" alt="Dia Reminders screen" width="390" height="844" data-h="Nothing slips through." data-d="Overdue, soon, up to date: every service at a glance." loading=lazy><img src="img/04-carburant.png" alt="Dia Fuel screen" width="390" height="844" data-h="Every fill-up counts." data-d="Consumption, cost per km and average price, worked out for you." loading=lazy><img src="img/08-preparer.png" alt="Dia Trip screen" width="390" height="844" data-h="Leave with peace of mind." data-d="Route, fuel stations on the way and range warning before you leave." loading=lazy><img src="img/05-journal.png" alt="Dia Notes and tracking screen" width="390" height="844" data-h="Your vehicle's memory." data-d="Problems, tests and adjustments noted as you go, found with one search." loading=lazy><img src="img/10-reglages.png" alt="Dia Settings screen" width="390" height="844" data-h="Dia, your way." data-d="Language, currency, theme, text size and backup." loading=lazy></div></div>
       <h3 id="show-h">All your vehicles, one log.</h3>
       <p id="show-d">Scooter, car, bike: each with its own odometer, reminders and expenses.</p>
     </div>

diff --git a/confidentialite.html b/confidentialite.html
@@ -5,11 +5,11 @@
 <meta name="viewport" content="width=device-width,initial-scale=1">
 <title>Confidentialité — Dia</title>
 <meta name="description" content="Politique de confidentialité de l'application Dia : aucune donnée collectée, tout reste sur le téléphone.">
-<meta name="theme-color" content="#0B0B0B">
+<meta name="theme-color" content="#0C0B0A">
 <link rel="canonical" href="https://jhasina.github.io/dia-site/confidentialite.html">
 <link rel="icon" href="img/icone.png">
 <link rel="preconnect" href="https://fonts.googleapis.com"><link rel="preconnect" href="https://fonts.gstatic.com" crossorigin>
-<link href="https://fonts.googleapis.com/css2?family=Figtree:wght@400;500;600&family=Urbanist:wght@700;800&display=swap" rel="stylesheet">
+<link href="https://fonts.googleapis.com/css2?family=Figtree:wght@400;500;600&family=Space+Grotesk:wght@600;700&display=swap" rel="stylesheet">
 <script>try{document.documentElement.dataset.theme=localStorage.dia_theme||(matchMedia('(prefers-color-scheme: light)').matches?'light':'dark')}catch(e){document.documentElement.dataset.theme='dark'}</script>
 <link rel="stylesheet" href="style.css">
 </head>

diff --git a/build.py b/build.py
@@ -62,9 +62,9 @@ T = [  # (français, malagasy, anglais)
      "Lalana, toeram-pivarotana solika eny an-dalana, fampitandremana raha misy elanelana mihoatra ny solika ananao.",
      'Route, fuel stations on the way, warning if a stretch exceeds your range.'),
     ('alt="Préparer un trajet sur la carte"', 'alt="Fanomanana dia eo amin\'ny sarintany"', 'alt="Planning a trip on the map"'),
-    ('<h3>Journal</h3>', '<h3>Rakitsoratra</h3>', '<h3>Logbook</h3>'),
+    ('<h3>Notes et suivi</h3>', '<h3>Fanamarihana sy fanarahana</h3>', '<h3>Notes and tracking</h3>'),
     ('Problèmes, essais, réglages, configuration du véhicule.', "Olana, andrana, fanamboarana, firafitry ny fiara.", 'Problems, tests, adjustments, vehicle setup.'),
-    ('alt="Journal de bord"', 'alt="Rakitsoratra"', 'alt="Logbook"'),
+    ('alt="Notes et suivi du véhicule"', 'alt="Fanamarihana sy fanarahana ny fiara"', 'alt="Vehicle notes and tracking"'),
     ('<h3>Tes données restent chez toi</h3>', '<h3>Aminao ihany ny angonao</h3>', '<h3>Your data stays with you</h3>'),
     ('Rien ne quitte le téléphone. Pas de serveur, pas de pisteur. Export JSON ou CSV quand tu veux.',
      "Tsy misy mivoaka ny findainao. Tsy misy mpizara, tsy misy fanaraha-maso. Azonao aondrana JSON na CSV rehefa tianao.",
@@ -84,14 +84,14 @@ T = [  # (français, malagasy, anglais)
     ('</i>Rappels</button>', '</i>Fanairana</button>', '</i>Reminders</button>'),
     ('</i>Carburant</button>', '</i>Solika</button>', '</i>Fuel</button>'),
     ('</i>Trajet</button>', '</i>Dia</button>', '</i>Trips</button>'),
-    ('</i>Journal</button>', '</i>Rakitsoratra</button>', '</i>Logbook</button>'),
+    ('</i>Notes et suivi</button>', '</i>Fanamarihana</button>', '</i>Notes</button>'),
     ('</i>Réglages</button>', '</i>Fikirana</button>', '</i>Settings</button>'),
     ('Un écran par besoin.<br>Tout dans la même app.', "Pejy iray isaky ny filana.<br>Ao anaty app iray ihany ny zava-drehetra.", 'One screen per need.<br>All in the same app.'),
     ('alt="Écran Garage de Dia"', 'alt="Pejy Garazy ao amin\'i Dia"', 'alt="Dia Garage screen"'),
     ('alt="Écran Rappels de Dia"', 'alt="Pejy Fanairana ao amin\'i Dia"', 'alt="Dia Reminders screen"'),
     ('alt="Écran Carburant de Dia"', 'alt="Pejy Solika ao amin\'i Dia"', 'alt="Dia Fuel screen"'),
     ('alt="Écran Trajet de Dia"', 'alt="Pejy Dia ao amin\'i Dia"', 'alt="Dia Trip screen"'),
-    ('alt="Écran Journal de Dia"', 'alt="Pejy Rakitsoratra ao amin\'i Dia"', 'alt="Dia Logbook screen"'),
+    ('alt="Écran Notes et suivi de Dia"', 'alt="Pejy Fanamarihana ao amin\'i Dia"', 'alt="Dia Notes and tracking screen"'),
     ('alt="Écran Réglages de Dia"', 'alt="Pejy Fikirana ao amin\'i Dia"', 'alt="Dia Settings screen"'),
     ('Tous tes véhicules, un seul carnet.', "Ny fiaranao rehetra, rakitsoratra iray.", 'All your vehicles, one log.'),
     ('Scooter, voiture, vélo : chacun son compteur, ses rappels et ses dépenses.', "Scooter, fiara, bisikileta: samy manana ny kaonterany, ny fampahatsiahivany ary ny fandaniany.", 'Scooter, car, bike: each with its own odometer, reminders and expenses.'),
